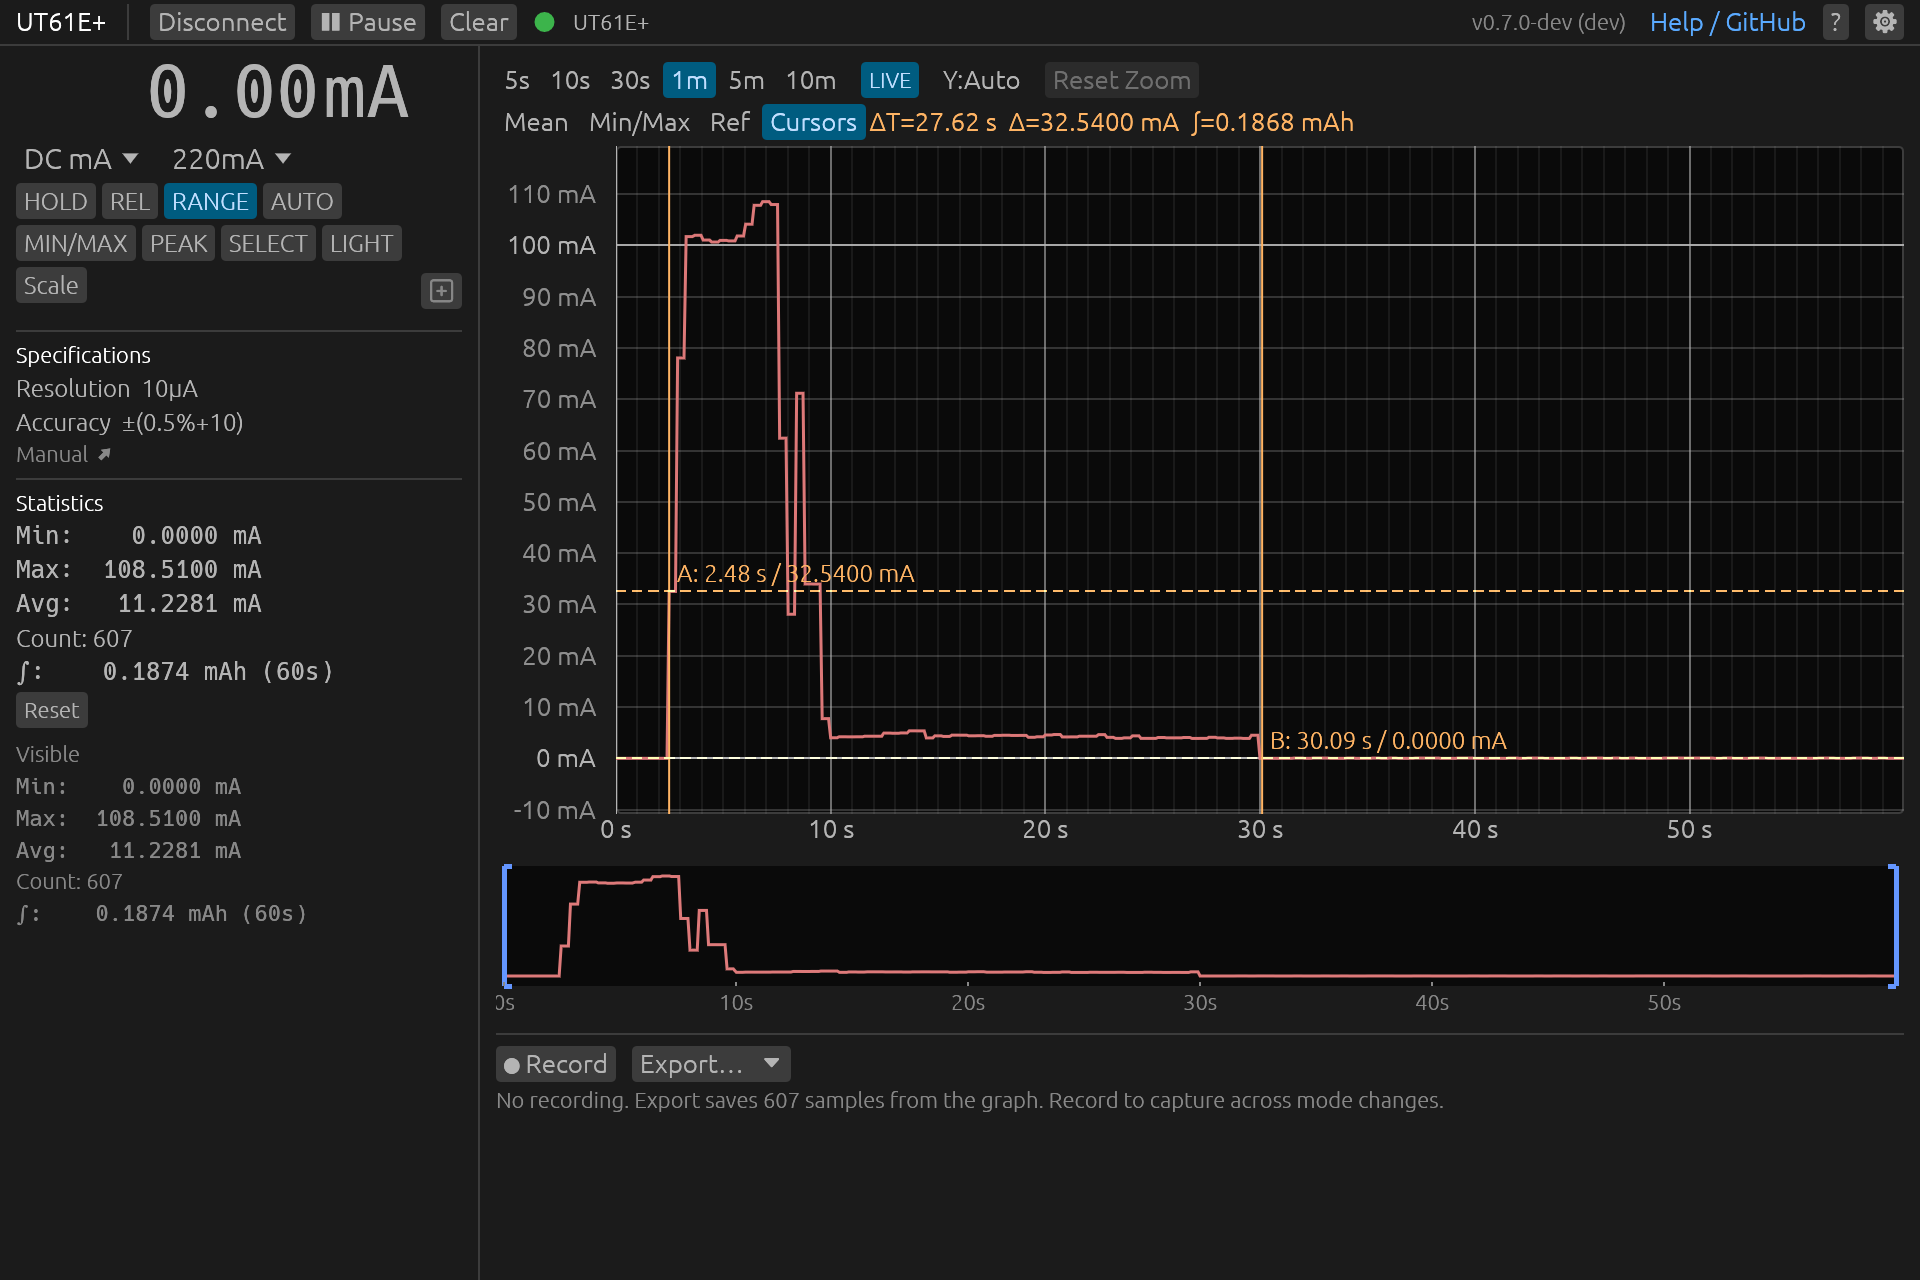
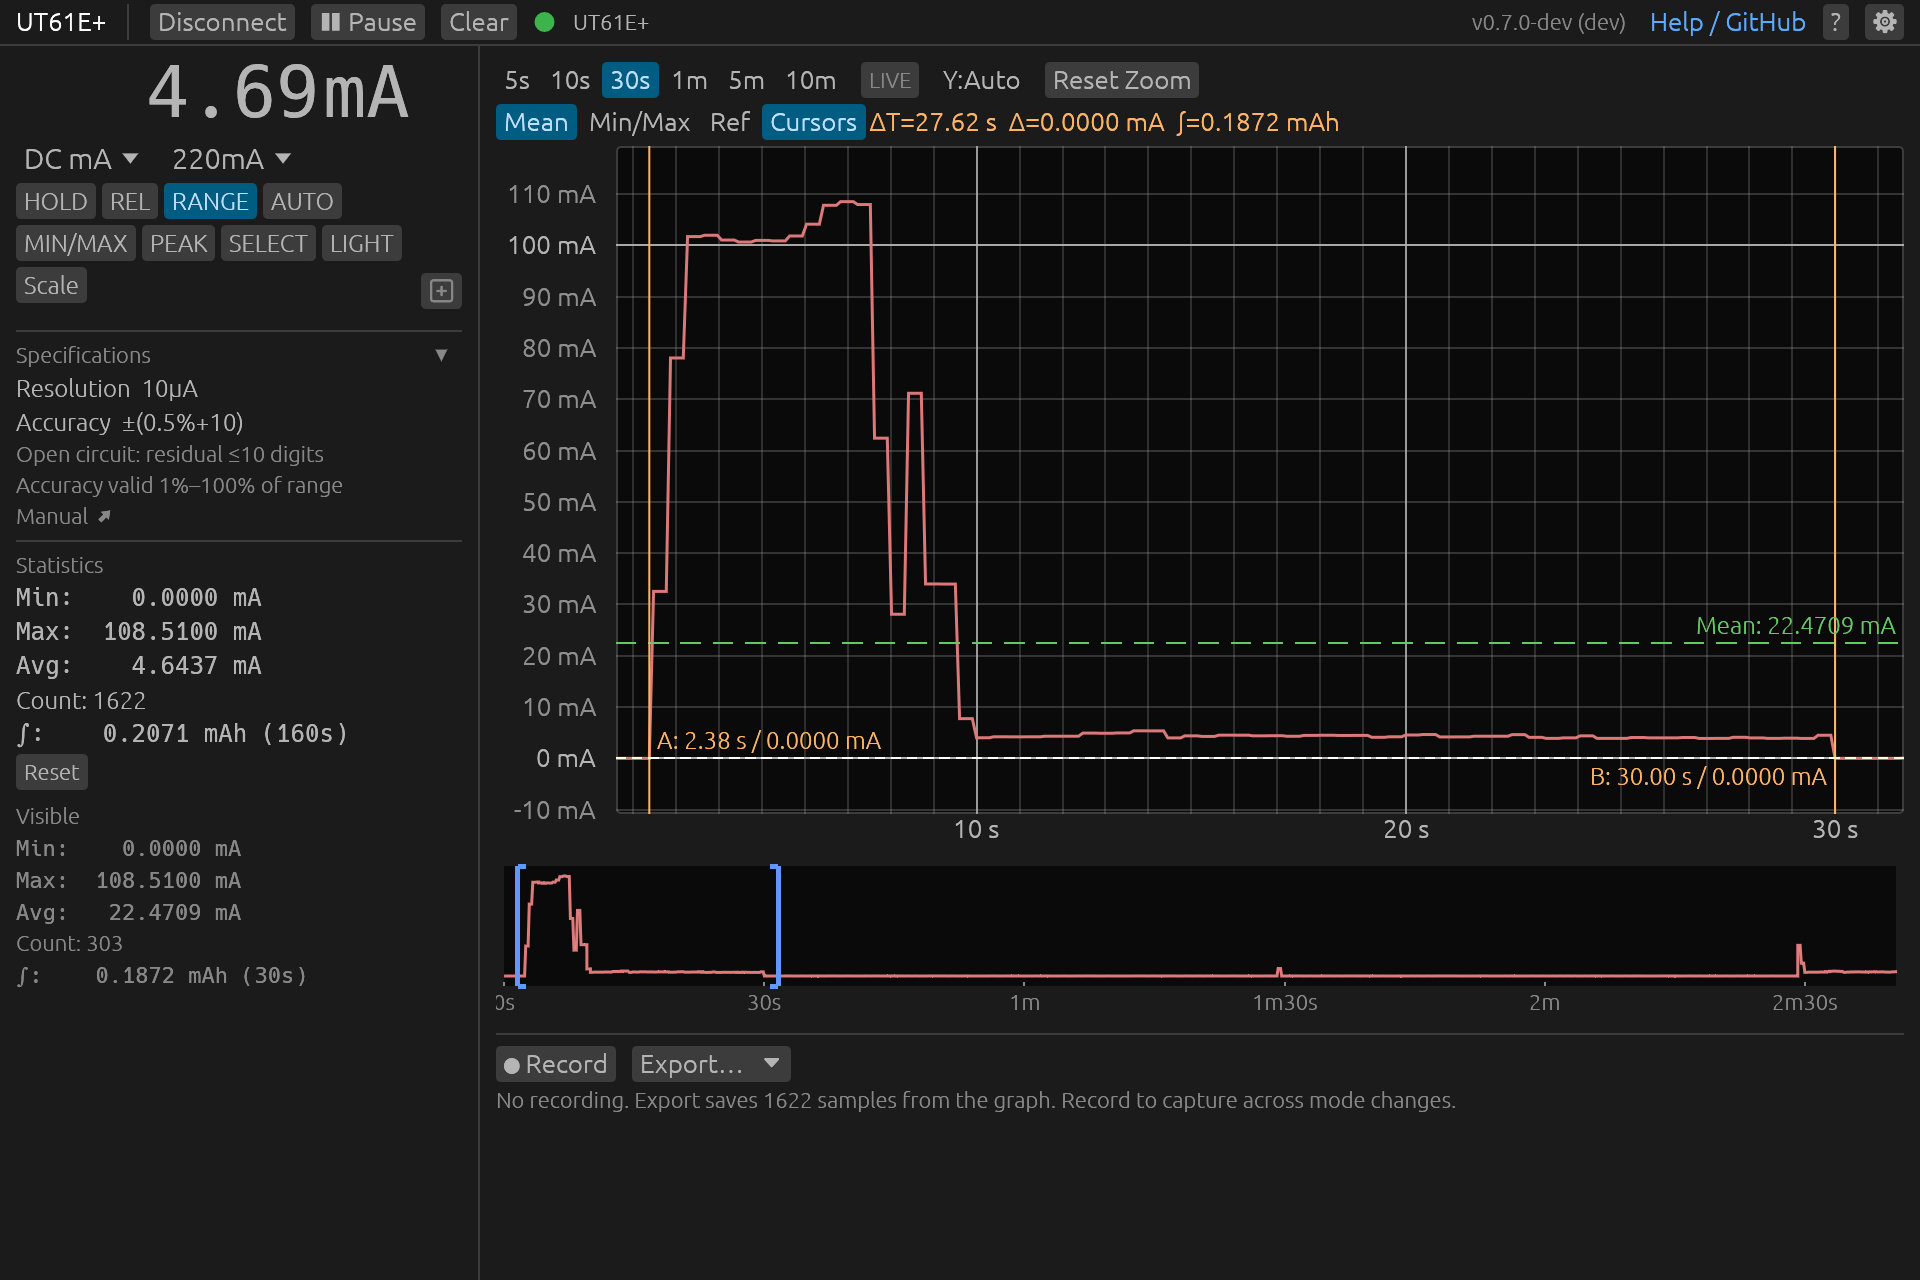
docs: README shot frames the boot in a 30s window off the minimap
The hero read 0.00 mA, spent half its 1m window on the idle floor and
ran cursor A's level line across the middle of the plot. It now stops
inside the first refresh cycle (4.69 mA), picks the boot off the minimap
with the 30s chip lit, adds the window's mean, and puts both cursors on
the idle floor either side of the boot.

diff --git a/README.md b/README.md
@@ -10,7 +10,7 @@ Read, record and remote-control a digital multimeter over its USB cable. Support
 
 Includes a CLI with text, CSV and JSON output and a GUI with real-time graphing.
 
-![dmm-gui on a DC mA session: the live reading, specifications and statistics beside the graph, where two cursors span a sensor's boot sequence and read its duration and charge](assets/gui-wide-layout.png)
+![dmm-gui on a DC mA session: the live reading, specifications and statistics beside the graph, where the minimap picks out a sensor's boot sequence and two cursors read its duration and charge](assets/gui-wide-layout.png)
 
 ## [GUI](docs/gui-reference.md)
 

diff --git a/docs/gui-reference.md b/docs/gui-reference.md
@@ -19,7 +19,7 @@ dmm-gui [OPTIONS]
 A desktop GUI for live measurement display, time-series graphing, recording,
 and remote control of UNI-T and Voltcraft multimeters.
 
-![Wide layout on a DC mA session: the live reading, specifications and statistics beside the graph, where two cursors span a sensor's boot sequence and read its duration and charge](../assets/gui-wide-layout.png)
+![Wide layout on a DC mA session: the live reading, specifications and statistics beside the graph, where the minimap picks out a sensor's boot sequence and two cursors read its duration and charge](../assets/gui-wide-layout.png)
 
 ## Connecting
 
